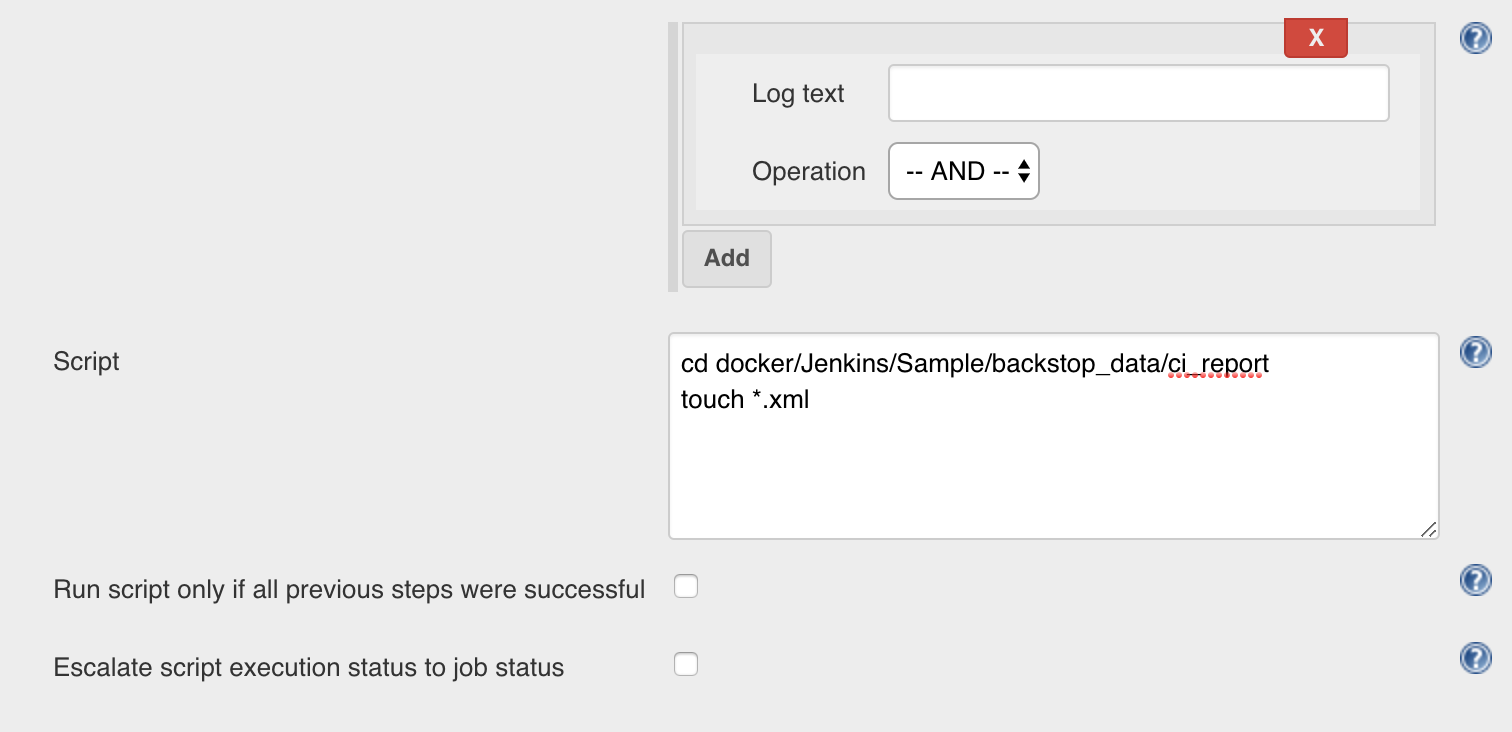
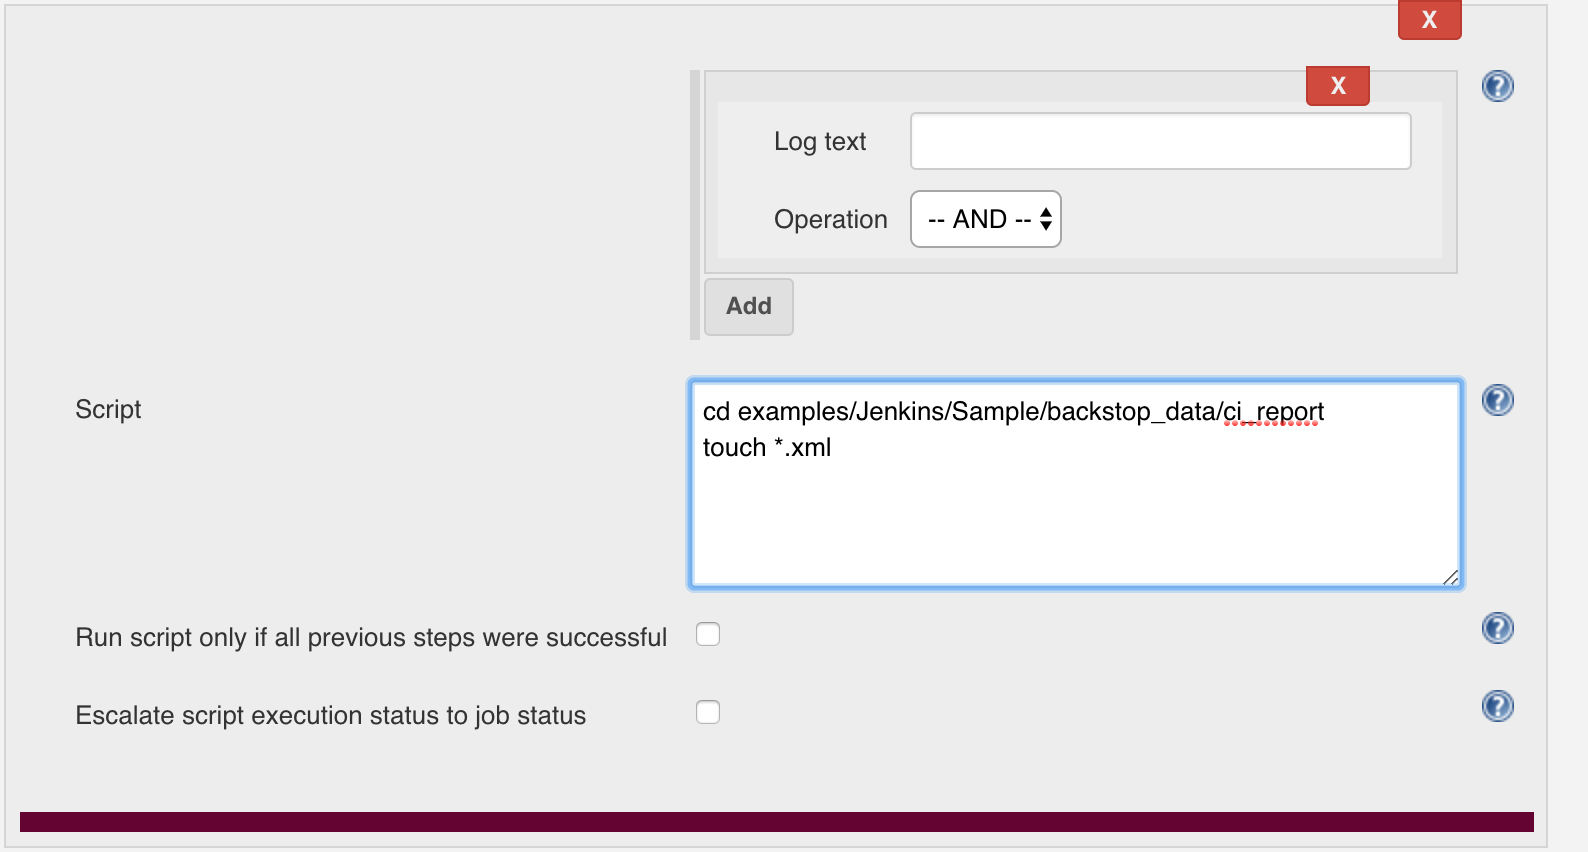
[Docs] Fix the Jenkins sudo security issue  (#804)
* [Docs] Jenkins Guide

* [Docs] Jenkins Guide

* [Docs] Jenkins Guide

* [Docs] Jenkins Guide

* [Docs] Jenkins Guide

* [Docs] Jenkins Guide

* [Docs] Jenkins Guide

* [Docs] Jenkins Guide

* [Docs] Add Docker Ignore

* [Docs] Move Jenkins Guide to examples

* [Docs] Fix the relative link

* [Fix] Fix the Jenkins security issue

diff --git a/examples/Jenkins/README.md b/examples/Jenkins/README.md
@@ -3,6 +3,7 @@
 Here, we use the DooD (Docker-outside-of-Docker) to run the jenkins.
 
 For more info about DooD, we **HIGHLY** suggest to read [the blog](https://container-solutions.com/running-docker-in-jenkins-in-docker/) first.
+> Here, what we do more is we fix the "sudo" security issue
 
 ## Content
 - [Pre Conditions](#pre-conditions)
@@ -19,15 +20,32 @@ For more info about DooD, we **HIGHLY** suggest to read [the blog](https://conta
    ```
    docker pull jenkins/jenkins:lts
    ```
-2. Use RebuildJenkins/Dockerfile to rebuild image as "jenkins/jenkins2:lts": 
+
+2. Use --group-add to give jenkins user to have permission to run docker
+   
+   Run the command to see which group id the container automatically created when we map the **-v /var/run/docker.sock:/var/run/docker.sock**
+   
+   > Note: If the OS is **MAC**, change ownership of the /var/run/docker.sock to your current user: ``sudo chown `id -u`:staff /var/run/docker.sock``
+   
    ```
-   docker build -t jenkins/jenkins2:lts .
+   docker run \
+        -ti \
+        -v /var/run/docker.sock:/var/run/docker.sock \
+        --rm \
+        jenkins/jenkins:lts bash -c "ls -l /var/run/docker.sock"
    ```
+   
+   You will get the result as bellow, mark down the group id. Normally speaking, the id should be 999 or 998.
+
+   <sub>srw-rw---- 1 root **999** 0 Jun 16 19:18 /var/run/docker.sock</sub>
+
 3. Run Jenkins - Master
    
-   For more info about how to use the jenkins/jenkins:lts, please refer to: [https://github.com/jenkinsci/docker/blob/master/README.md](https://github.com/jenkinsci/docker/blob/master/README.md)
+   - For more info about how to use the jenkins/jenkins:lts, please refer to: [https://github.com/jenkinsci/docker/blob/master/README.md](https://github.com/jenkinsci/docker/blob/master/README.md)
 
-   Here, create a '~/jenkins_home' docker volume on the HOST machine, that will survive the container stop/restart/deletion.
+   - Here, create a '~/jenkins_home' docker volume on the HOST machine, that will survive the container stop/restart/deletion.
+   
+   - Get the group-id from step 2, for example 999
    
    ``` 
    docker run \
@@ -39,8 +57,10 @@ For more info about DooD, we **HIGHLY** suggest to read [the blog](https://conta
        --name jenkins2 \
        -d \
        --rm \
-       jenkins/jenkins2:lts
+       --group-add 999 \
+       jenkins/jenkins:lts
    ```
+   
 4. Open [http://127.0.0.1:8080/](http://127.0.0.1:8080/), and follow the jenkins guid to finish the installation.
 5. Install Additional Plugins in [http://127.0.0.1:8080/pluginManager/available](http://127.0.0.1:8080/pluginManager/available) with "Install without restart":
    - HTML Publisher
@@ -63,13 +83,32 @@ For more info about DooD, we **HIGHLY** suggest to read [the blog](https://conta
    ```
    docker pull jenkins/jnlp-slave
    ```
-2. Use RebuildJenkinsJnlpSlave/Dockerfile to rebuild image as "jenkins/jnlp-slave2:latest": 
+
+2. Use --group-add to give jenkins user to have permission to run docker
+   
+   Run the command to see which group id the container automatically created when we map the **-v /var/run/docker.sock:/var/run/docker.sock**
+   
+   > Note: If the OS is **MAC**, change ownership of the /var/run/docker.sock to your current user: ``sudo chown `id -u`:staff /var/run/docker.sock``
+   
    ```
-   docker build -t jenkins/jnlp-slave2 .
+   docker run \
+        -ti \
+        -v /var/run/docker.sock:/var/run/docker.sock \
+        --rm \
+        jenkins/jenkins:lts bash -c "ls -l /var/run/docker.sock"
    ```
+   
+   You will get the result as bellow, mark down the group id. Normally speaking, the id should be 999 or 998.
+
+   <sub>srw-rw---- 1 root **999** 0 Jun 16 19:18 /var/run/docker.sock</sub>
+   
 3. Start container for agent:
-   For more info about how to use jenkins/jnlp-slave2, please refer to: [https://github.com/jenkinsci/docker-jnlp-slave](https://github.com/jenkinsci/docker-jnlp-slave)
-   > Note: The master url should be **172.17.0.1:8080** between the docker containers
+   - For more info about how to use jenkins/jnlp-slave, please refer to: [https://github.com/jenkinsci/docker-jnlp-slave](https://github.com/jenkinsci/docker-jnlp-slave)
+   
+   - The master url should be **172.17.0.1:8080** between the docker containers
+   
+   - Get the group-id from step 2, for example 999
+   
    ```
    docker run \
         -v ~/jenkins_home:/home/jenkins \
@@ -78,7 +117,8 @@ For more info about DooD, we **HIGHLY** suggest to read [the blog](https://conta
         --name jenkins_agent_1 \
         -d \
         --rm \
-        jenkins/jnlp-slave2 -url http://172.17.0.1:8080 YOUR_SECRET Slave1
+        --group-add 999 \
+        jenkins/jnlp-slave -url http://172.17.0.1:8080 YOUR_SECRET Slave1
    ```
    For example:
    ```
@@ -89,7 +129,8 @@ For more info about DooD, we **HIGHLY** suggest to read [the blog](https://conta
         --name jenkins_agent_1 \
         -d \
         --rm \
-        jenkins/jnlp-slave2 -url http://172.17.0.1:8080 127b664578e071d8c5f78bc1f7c43500d1acefc043bff3572f880919a4595010 Slave1
+        --group-add 999 \
+        jenkins/jnlp-slave -url http://172.17.0.1:8080 127b664578e071d8c5f78bc1f7c43500d1acefc043bff3572f880919a4595010 Slave1
    ```
 4. You could see your agent working as below.
    ![Screenshot](Attachments/Jenkins_SlaveReady.png)
@@ -106,14 +147,13 @@ For more info about DooD, we **HIGHLY** suggest to read [the blog](https://conta
      1) You could run daily test by setting: **Build periodically** to **H 08 * * 1-5**
      2) You could Select **Poll SCM** and write "H/5 * * * *". This tells Jenkins to “ask” your repository every 5 minutes if there are changes. If there are any, trigger the job.
    - Build: Add **Execute Shell**, and add following for a sample.
-     > Note: 
-     > 1) Please use sudo docker to run test. This is a security risk for DooD.
-     > 2) You mount any volumes to the container by using --volumes-from \<container name\>
+     
+     **IMPORTANT**: Because we use DooD, you need to mount volumes to the container by using --volumes-from \<container name\> to make user the data is there.
        
      ```
      set +x
-     sudo docker pull backstopjs/backstopjs:latest
-     sudo docker run \
+     docker pull backstopjs/backstopjs:latest
+     docker run \
          --workdir ${WORKSPACE} \
          --volumes-from jenkins_agent_1 \
          --rm \
@@ -121,10 +161,10 @@ For more info about DooD, we **HIGHLY** suggest to read [the blog](https://conta
          --name backstopjs \
          --entrypoint=sh \
          backstopjs/backstopjs:latest \
-         -c "cd docker/Jenkins/Sample/; backstop test"
+         -c "cd examples/Jenkins/Sample/; backstop test"
          
      # Debug Purpose: It will keep container there until job aborted
-     # sudo docker run \
+     # docker run \
      #    --workdir ${WORKSPACE} \
      #    --volumes-from jenkins_agent_1 \
      #    --rm \
@@ -132,13 +172,13 @@ For more info about DooD, we **HIGHLY** suggest to read [the blog](https://conta
      #    --name backstopjs \
      #    --entrypoint=sh \
      #    backstopjs/backstopjs:latest \
-     #    -c "cd docker/Jenkins/Sample/; while true; do sleep 1; done"
+     #    -c "cd examples/Jenkins/Sample/; while true; do sleep 1; done"
      ```
    - Post-build Actions: 
      1) Add **Post build task** to delete the not exiting container
         ```
-        if [ "$(sudo docker ps -q -f name=backstopjs)" ]; then
-            sudo docker rm -f backstopjs
+        if [ "$(docker ps -q -f name=backstopjs)" ]; then
+            docker rm -f backstopjs
         fi
         ```
         ![Screenshot](Attachments/Jenkins_PostBuildActions_DeleteContainer.png)
